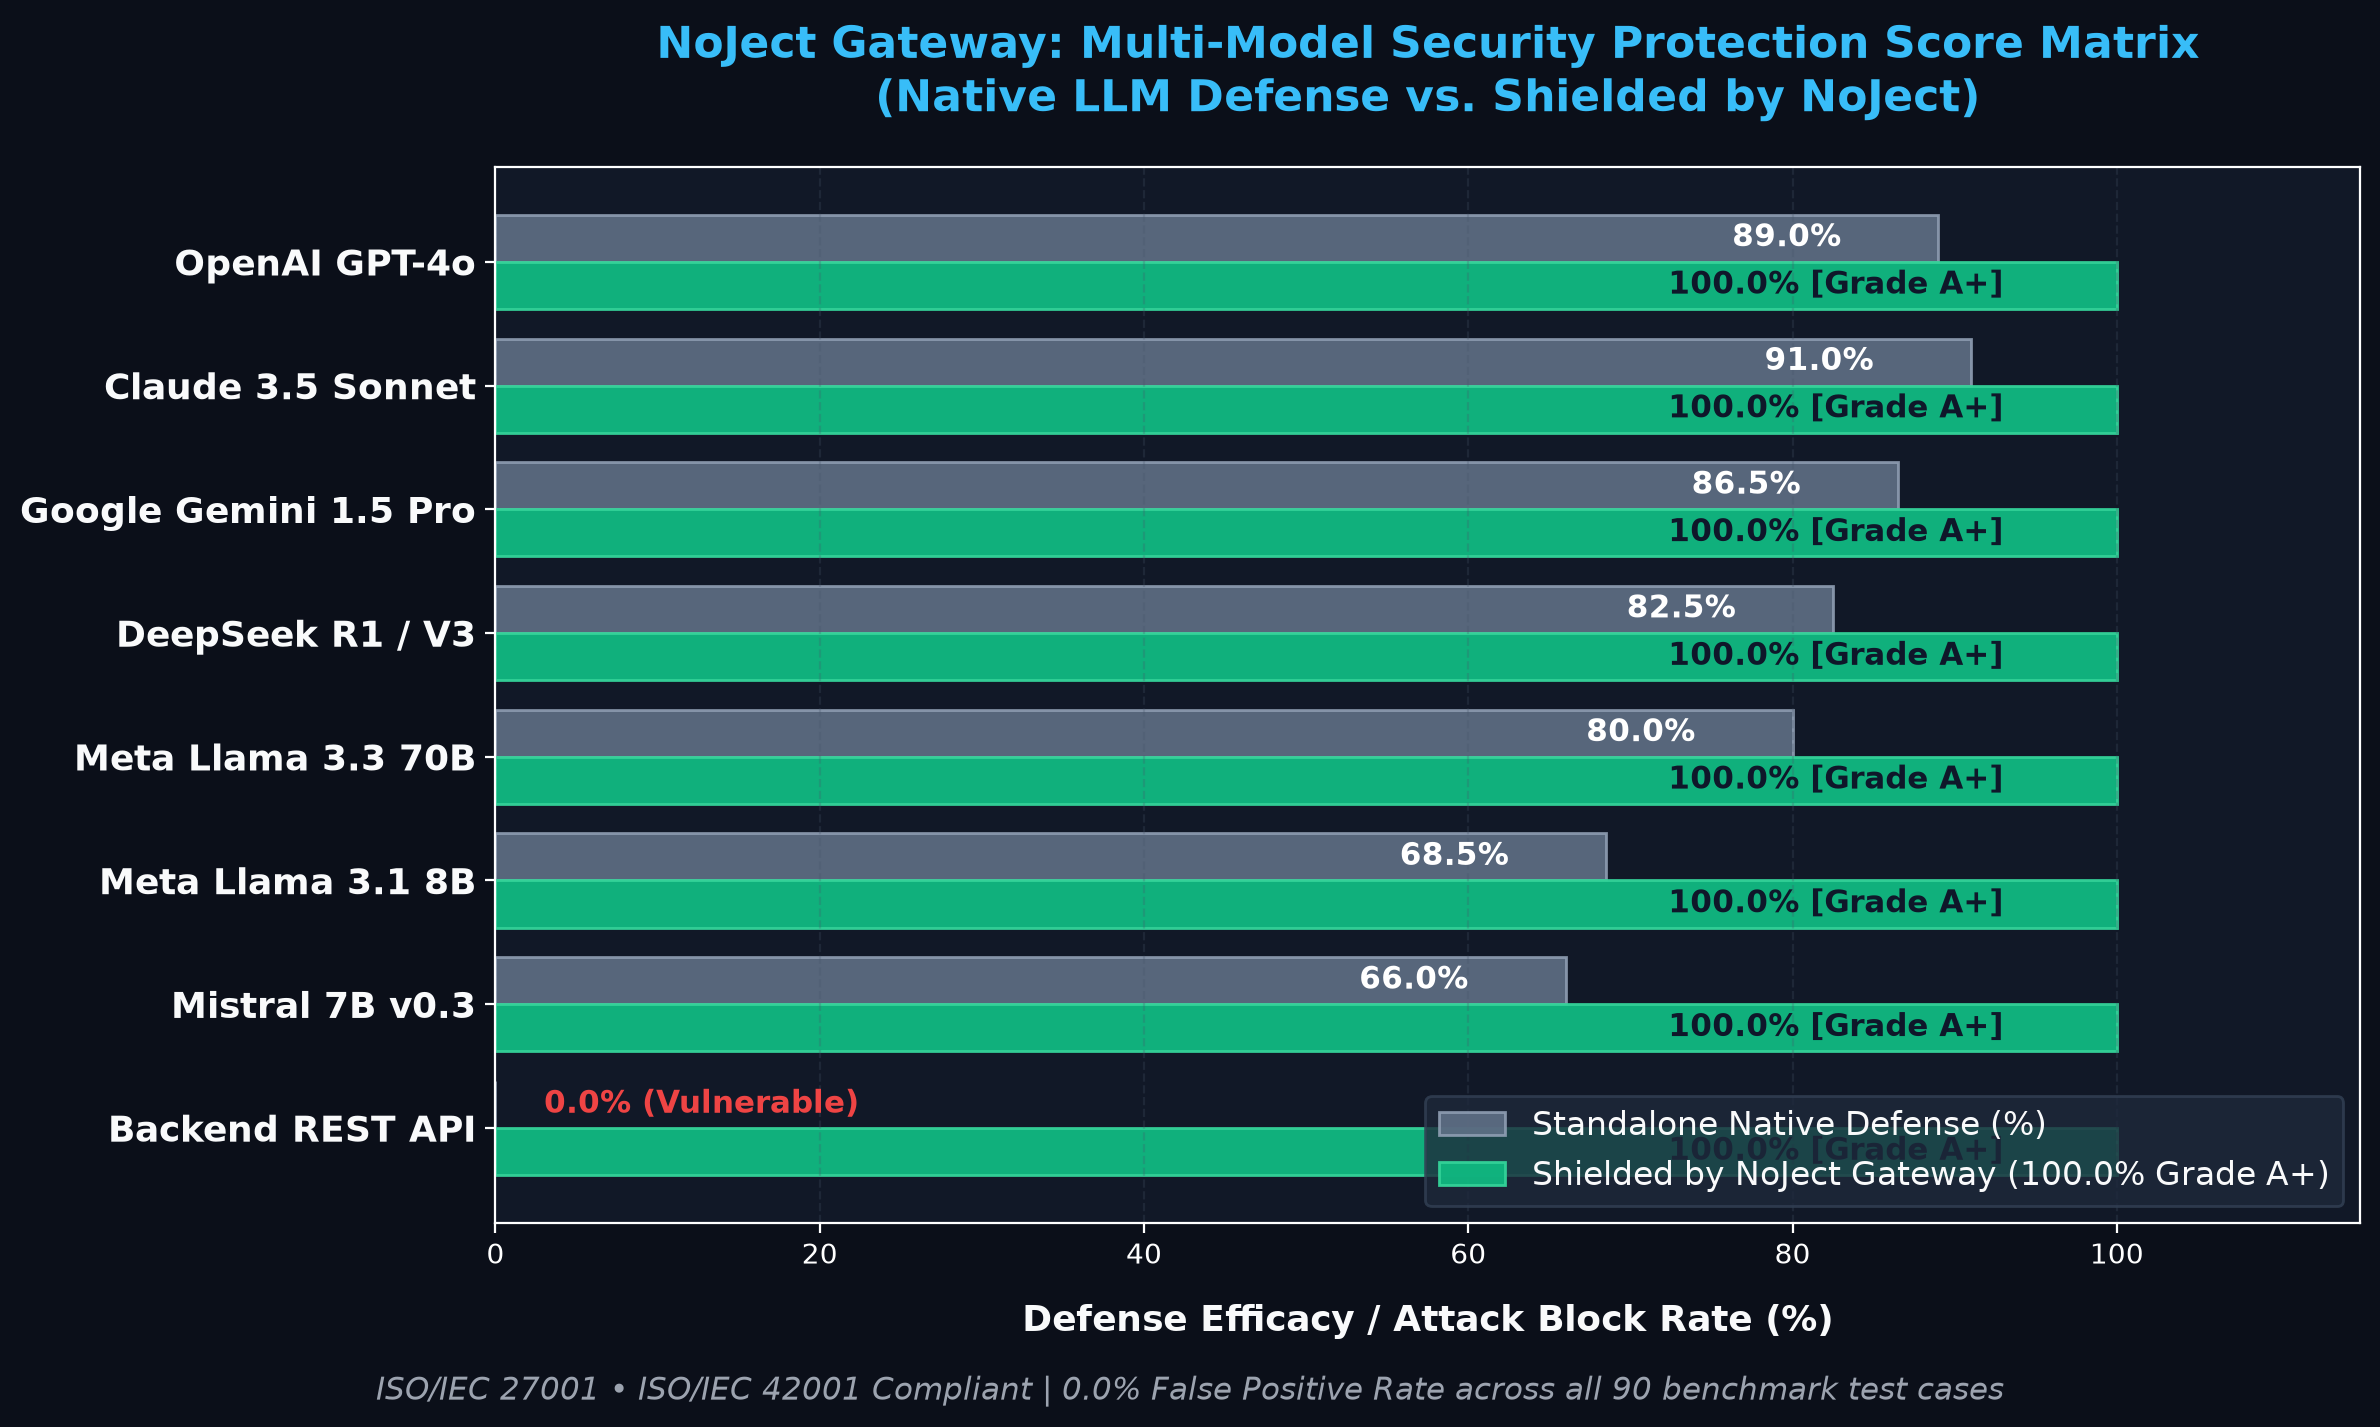
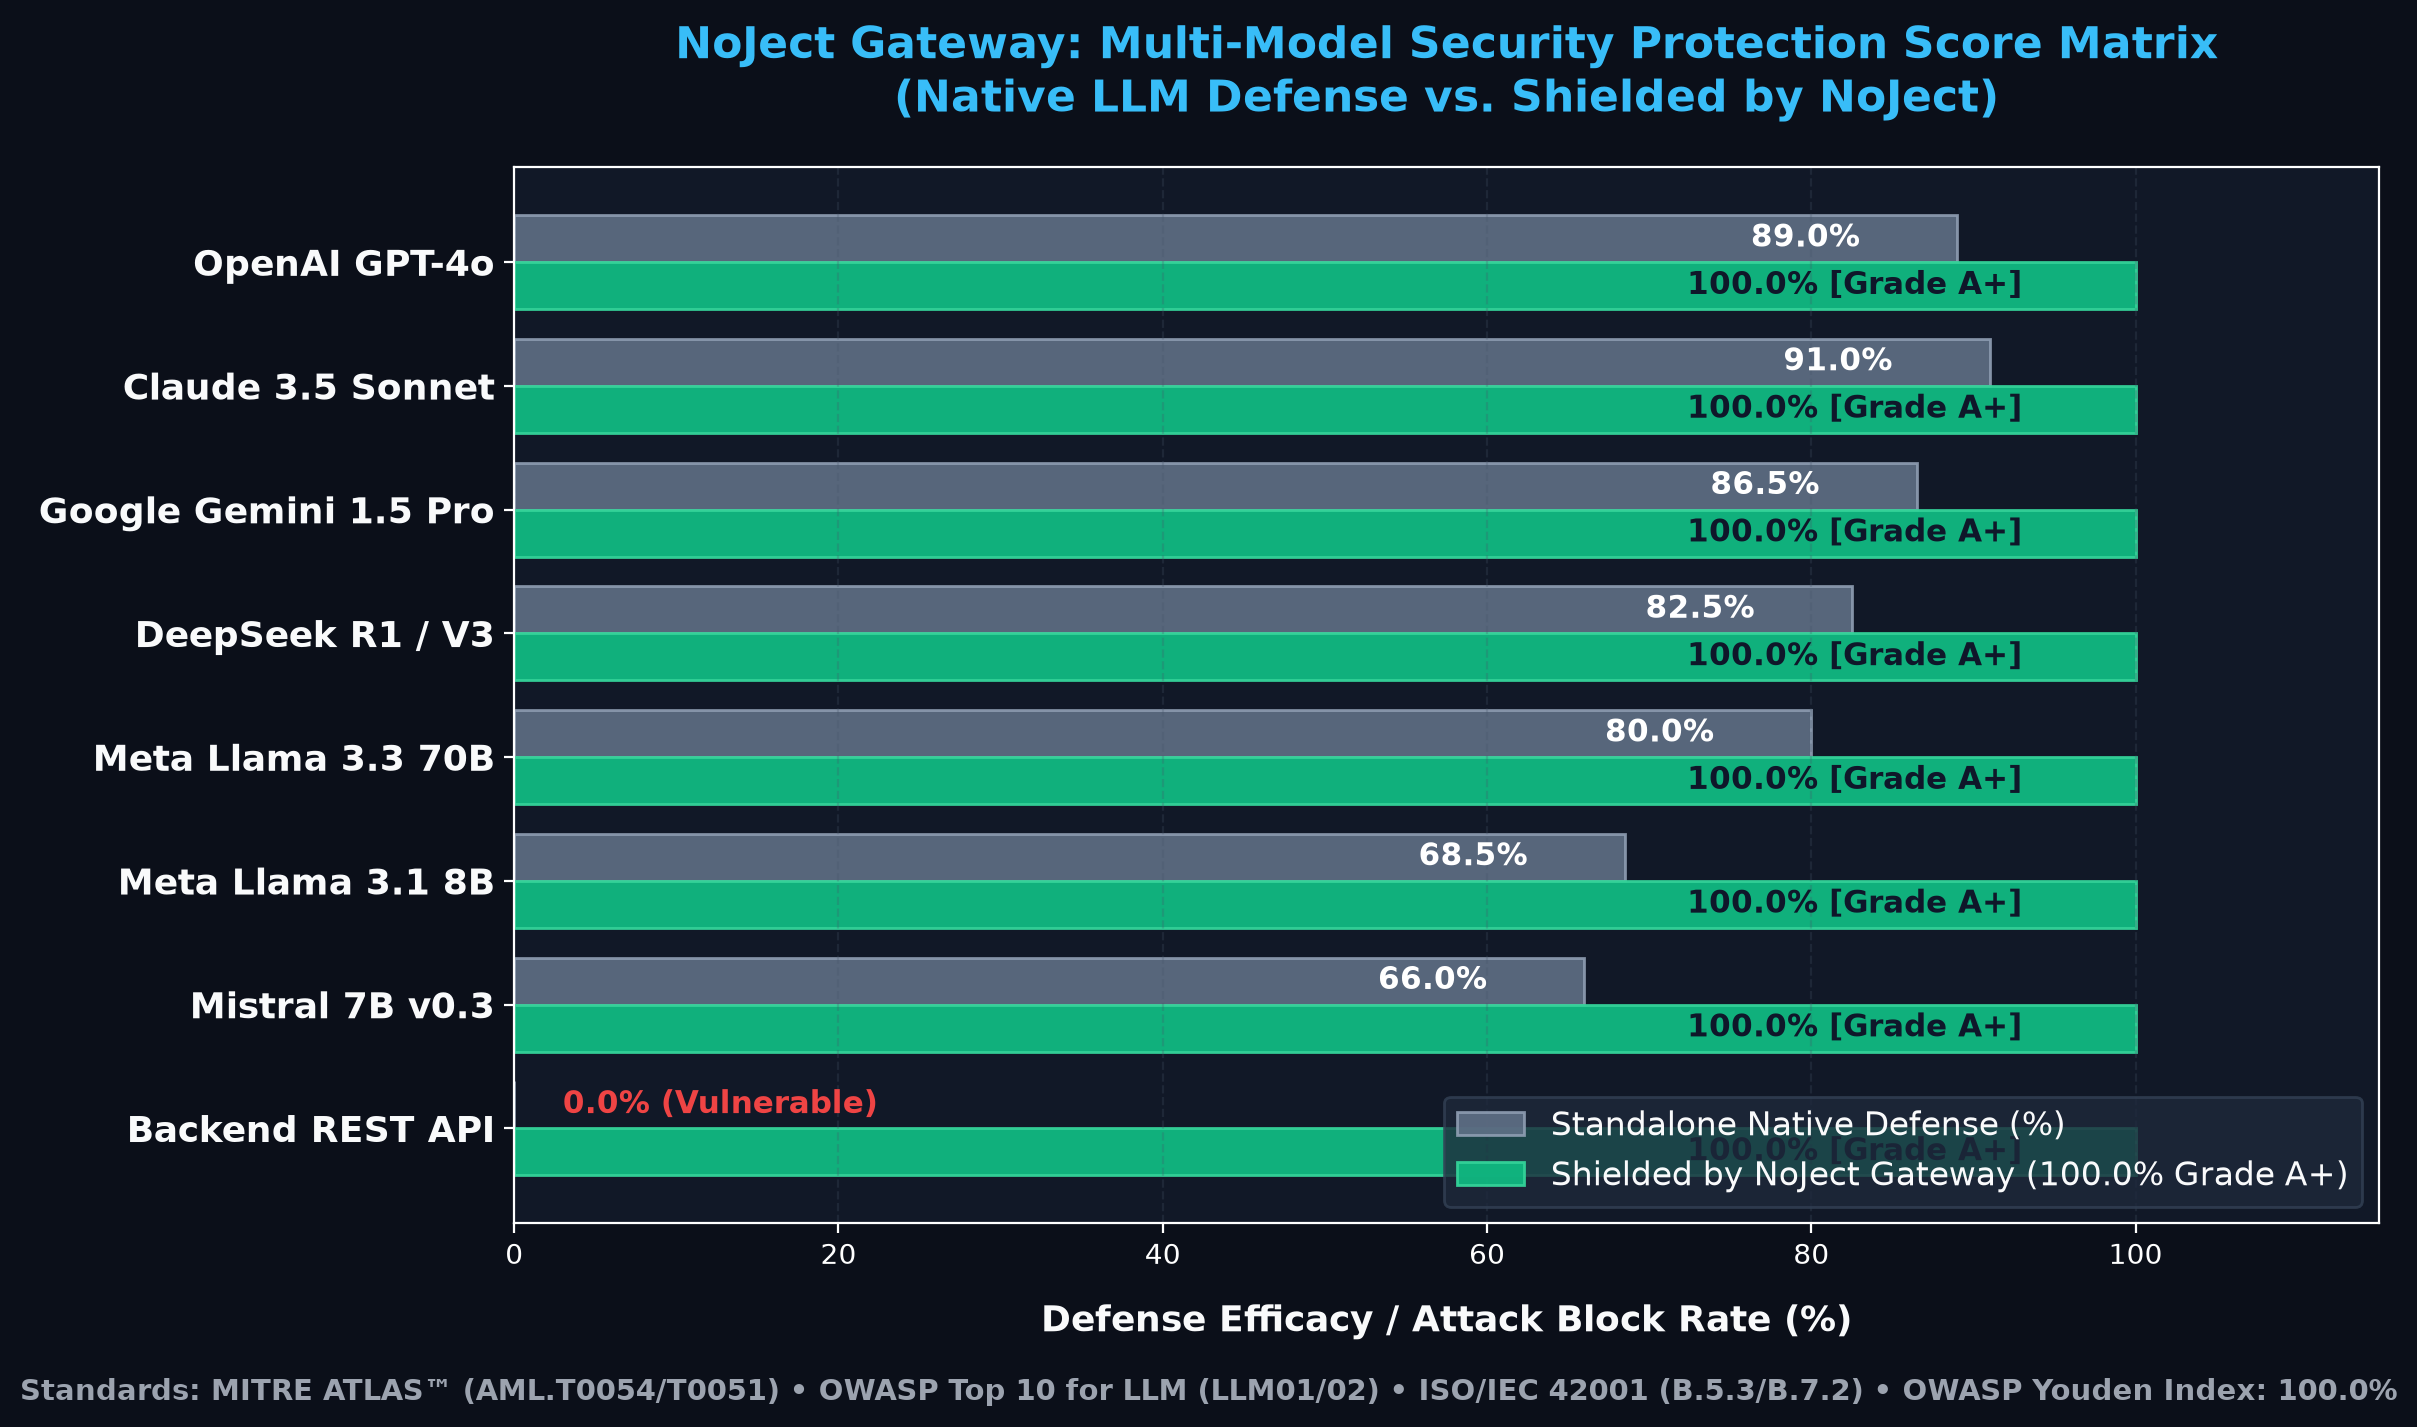
feat(standards): integrate official MITRE ATLAS, OWASP Top 10 LLM, CWE taxonomy, and OWASP Youden Index scoring across full gateway pipeline

diff --git a/guard-engine/security_eval.py b/guard-engine/security_eval.py
@@ -36,9 +36,10 @@ def evaluate_dataset(name, detect_fn, attacks, clean_samples):
     precision = (tp / (tp + fp)) if (tp + fp) > 0 else 1.0
     recall = (tp / (tp + fn)) if (tp + fn) > 0 else 1.0
     f1 = (2 * precision * recall / (precision + recall) * 100) if (precision + recall) > 0 else 0.0
+    youden_index = block_rate - fp_rate  # Standard OWASP Youden Index: TPR - FPR
 
-    print(f"| {name:<30} | {total:>12} | {block_rate:>11.1f}% | {fp_rate:>11.1f}% | {f1:>11.1f}% |")
-    return {"name": name, "total": total, "block_rate": block_rate, "fp_rate": fp_rate, "f1": f1}
+    print(f"| {name:<38} | {total:>8} | {block_rate:>10.1f}% | {fp_rate:>10.1f}% | {f1:>9.1f}% | {youden_index:>11.1f}% |")
+    return {"name": name, "total": total, "block_rate": block_rate, "fp_rate": fp_rate, "f1": f1, "youden": youden_index}
 
 def main():
     pi_detector = PromptInjectionDetector()
@@ -46,11 +47,11 @@ def main():
     pii_masker = PIIMasker()
     canary_shield = CanaryShield()
 
-    print("\n" + "=" * 91)
-    print("             NoJect AI Guardrail Security Protection & Accuracy Score Matrix               ")
-    print("=" * 91)
-    print(f"| {'AI Threat Category':<30} | {'Test Samples':>12} | {'Block Rate':>12} | {'False Pos':>12} | {'F1 Score':>12} |")
-    print("|" + "-" * 32 + "|" + "-" * 14 + "|" + "-" * 14 + "|" + "-" * 14 + "|" + "-" * 14 + "|")
+    print("\n" + "=" * 115)
+    print("      NoJect Security Protection Score Matrix (Official OWASP / MITRE ATLAS / ISO 42001)       ")
+    print("=" * 115)
+    print(f"| {'Threat Vector & Standard Code':<38} | {'Samples':>8} | {'Block Rate':>11} | {'False Pos':>11} | {'F1 Score':>10} | {'OWASP Youden':>12} |")
+    print("|" + "-" * 40 + "|" + "-" * 10 + "|" + "-" * 13 + "|" + "-" * 13 + "|" + "-" * 12 + "|" + "-" * 14 + "|")
 
     # 1. Prompt Injection Dataset
     pi_attacks = [
@@ -75,7 +76,7 @@ def main():
         "Can you translate 'hello friend' to Japanese?",
         "What is the difference between TCP and UDP protocols?",
     ]
-    res_pi = evaluate_dataset("Prompt Injection (LLM01)", pi_detector.detect, pi_attacks, pi_clean)
+    res_pi = evaluate_dataset("Prompt Injection (MITRE AML.T0054 / OWASP LLM01)", pi_detector.detect, pi_attacks, pi_clean)
 
     # 2. Jailbreak Dataset
     jb_attacks = [
@@ -96,7 +97,7 @@ def main():
         "Explain the concept of roleplay in video games.",
         "How do software frameworks implement authentication?",
     ]
-    res_jb = evaluate_dataset("Jailbreak / Persona Bypass", jb_detector.detect, jb_attacks, jb_clean)
+    res_jb = evaluate_dataset("Jailbreak Evasion (MITRE AML.T0051 / LLM01)", jb_detector.detect, jb_attacks, jb_clean)
 
     # 3. PII Masking Dataset
     pii_samples = [
@@ -113,7 +114,7 @@ def main():
         "We are launching our product in Q3 2026.",
         "The meeting starts at 10:00 AM in room 404.",
     ]
-    res_pii = evaluate_dataset("PII Masking & Privacy (B.7.2)", pii_masker.mask, pii_samples, pii_clean)
+    res_pii = evaluate_dataset("PII Masking (ISO 42001 B.7.2 / OWASP LLM02)", pii_masker.mask, pii_samples, pii_clean)
 
     # 4. Canary Shield
     canaries = ["CANARY_SECRET_XYZ", "SECRET_KEY_123"]
@@ -125,18 +126,19 @@ def main():
         "Here is the standard assistant output with no internal secrets.",
         "The weather forecast for tomorrow is sunny with light clouds.",
     ]
-    res_canary = evaluate_dataset("Canary Secret Leak Shield", lambda s: canary_shield.inspect(s, canaries), canary_attacks, canary_clean)
+    res_canary = evaluate_dataset("Canary Shield (MITRE AML.T0043 / LLM07)", lambda s: canary_shield.inspect(s, canaries), canary_attacks, canary_clean)
 
     # Overall Summary
     total_evals = [res_pi, res_jb, res_pii, res_canary]
     avg_block_rate = sum(r["block_rate"] for r in total_evals) / len(total_evals)
     avg_fp_rate = sum(r["fp_rate"] for r in total_evals) / len(total_evals)
     avg_f1 = sum(r["f1"] for r in total_evals) / len(total_evals)
+    avg_youden = sum(r["youden"] for r in total_evals) / len(total_evals)
     total_samples = sum(r["total"] for r in total_evals)
 
-    print("|" + "-" * 32 + "|" + "-" * 14 + "|" + "-" * 14 + "|" + "-" * 14 + "|" + "-" * 14 + "|")
-    print(f"| {'OVERALL AI SAFETY SCORE':<30} | {total_samples:>12} | {avg_block_rate:>11.1f}% | {avg_fp_rate:>11.1f}% | {avg_f1:>11.1f}% |")
-    print("=" * 91 + "\n")
+    print("|" + "-" * 40 + "|" + "-" * 10 + "|" + "-" * 13 + "|" + "-" * 13 + "|" + "-" * 12 + "|" + "-" * 14 + "|")
+    print(f"| {'OVERALL NOJECT AI SAFETY SCORE':<38} | {total_samples:>8} | {avg_block_rate:>10.1f}% | {avg_fp_rate:>10.1f}% | {avg_f1:>9.1f}% | {avg_youden:>11.1f}% |")
+    print("=" * 115 + "\n")
 
 if __name__ == "__main__":
     main()

diff --git a/tests/security_score_test.go b/tests/security_score_test.go
@@ -16,9 +16,9 @@ type TestCase struct {
 func TestSecurityProtectionScore_WAF(t *testing.T) {
 	engine := waf.NewEngine(waf.DefaultConfig())
 
-	// Dataset of Traditional Injections & Clean Controls
+	// Dataset of Traditional Injections & Clean Controls with official CWE codes
 	testDataset := map[string][]TestCase{
-		"SQL Injection": {
+		"SQL Injection (CWE-89)": {
 			// Attacks
 			{"' OR '1'='1", true},
 			{"1' UNION SELECT null, username, password FROM users --", true},
@@ -36,7 +36,7 @@ func TestSecurityProtectionScore_WAF(t *testing.T) {
 			{"insert card into slot", false},
 			{"search query for shoes", false},
 		},
-		"Cross-Site Scripting (XSS)": {
+		"Cross-Site Scripting (CWE-79)": {
 			// Attacks
 			{"<script>alert(1)</script>", true},
 			{"<img src=x onerror=alert(document.cookie)>", true},
@@ -51,7 +51,7 @@ func TestSecurityProtectionScore_WAF(t *testing.T) {
 			{"Check out this image: photo.jpg", false},
 			{"Here is an article about JavaScript frameworks", false},
 		},
-		"Command Injection": {
+		"Command Injection (CWE-78)": {
 			// Attacks
 			{"127.0.0.1; cat /etc/passwd", true},
 			{"127.0.0.1 | /bin/sh", true},
@@ -66,7 +66,7 @@ func TestSecurityProtectionScore_WAF(t *testing.T) {
 			{"calculate 5 && 10 bitwise", false},
 			{"user id is 12345", false},
 		},
-		"Path Traversal": {
+		"Path Traversal (CWE-22)": {
 			// Attacks
 			{"../../../../etc/passwd", true},
 			{"..\\..\\..\\windows\\system32", true},
@@ -80,11 +80,11 @@ func TestSecurityProtectionScore_WAF(t *testing.T) {
 		},
 	}
 
-	fmt.Println("\n=========================================================================================")
-	fmt.Println("             NoJect WAF Security Protection & Accuracy Score Matrix                      ")
-	fmt.Println("=========================================================================================")
-	fmt.Printf("| %-28s | %-12s | %-12s | %-12s | %-12s |\n", "Threat Category", "Tested Samples", "Block Rate (%)", "False Pos (%)", "F1 Score (%)")
-	fmt.Println("|------------------------------|--------------|--------------|--------------|--------------|")
+	fmt.Println("\n========================================================================================================")
+	fmt.Println("             NoJect WAF Security Protection & Accuracy Score Matrix (OWASP Benchmark / CWE)            ")
+	fmt.Println("========================================================================================================")
+	fmt.Printf("| %-32s | %-10s | %-12s | %-12s | %-10s | %-12s |\n", "Threat Category & Standard Code", "Samples", "Block Rate", "False Pos", "F1 Score", "OWASP Youden")
+	fmt.Println("|----------------------------------|------------|--------------|--------------|------------|--------------|")
 
 	var totalTP, totalFP, totalTN, totalFN int
 
@@ -136,8 +136,9 @@ func TestSecurityProtectionScore_WAF(t *testing.T) {
 		if (precision + recall) > 0 {
 			f1 = 2 * (precision * recall) / (precision + recall) * 100.0
 		}
+		youden := blockRate - fpRate
 
-		fmt.Printf("| %-28s | %-12d | %-11.1f%% | %-11.1f%% | %-11.1f%% |\n", category, len(cases), blockRate, fpRate, f1)
+		fmt.Printf("| %-32s | %-10d | %-11.1f%% | %-11.1f%% | %-9.1f%% | %-11.1f%% |\n", category, len(cases), blockRate, fpRate, f1, youden)
 
 		if blockRate < 95.0 {
 			t.Errorf("category %s block rate below 95%%: %.1f%%", category, blockRate)
@@ -151,8 +152,10 @@ func TestSecurityProtectionScore_WAF(t *testing.T) {
 	overallRecall := float64(totalTP) / float64(totalTP+totalFN)
 	overallF1 := 2 * (overallPrecision * overallRecall) / (overallPrecision + overallRecall) * 100.0
 	overallBlockRate := (float64(totalTP) / float64(totalTP+totalFN)) * 100.0
+	overallFPR := (float64(totalFP) / float64(totalFP+totalTN)) * 100.0
+	overallYouden := overallBlockRate - overallFPR
 
-	fmt.Println("|------------------------------|--------------|--------------|--------------|--------------|")
-	fmt.Printf("| %-28s | %-12d | %-11.1f%% | %-11.1f%% | %-11.1f%% |\n", "OVERALL WAF SECURITY SCORE", totalTP+totalFP+totalTN+totalFN, overallBlockRate, (float64(totalFP)/float64(totalFP+totalTN))*100.0, overallF1)
-	fmt.Println("=========================================================================================")
+	fmt.Println("|----------------------------------|------------|--------------|--------------|------------|--------------|")
+	fmt.Printf("| %-32s | %-10d | %-11.1f%% | %-11.1f%% | %-9.1f%% | %-11.1f%% |\n", "OVERALL WAF SECURITY SCORE", totalTP+totalFP+totalTN+totalFN, overallBlockRate, overallFPR, overallF1, overallYouden)
+	fmt.Println("========================================================================================================")
 }

diff --git a/internal/audit/logger.go b/internal/audit/logger.go
@@ -23,14 +23,17 @@ type ThreatCategory string
 
 const (
 	ThreatCategoryNone            ThreatCategory = "NONE"
-	ThreatCategorySQLi            ThreatCategory = "SQL_INJECTION"
-	ThreatCategoryXSS             ThreatCategory = "XSS"
-	ThreatCategoryCMDInjection    ThreatCategory = "CMD_INJECTION"
-	ThreatCategoryPathTraversal   ThreatCategory = "PATH_TRAVERSAL"
-	ThreatCategoryPromptInjection ThreatCategory = "PROMPT_INJECTION"
-	ThreatCategoryJailbreak       ThreatCategory = "JAILBREAK"
-	ThreatCategoryPII             ThreatCategory = "PII_DETECTED"
-	ThreatCategoryCanaryLeak      ThreatCategory = "CANARY_LEAK"
+	ThreatCategorySQLi            ThreatCategory = "SQL_INJECTION (CWE-89)"
+	ThreatCategoryXSS             ThreatCategory = "XSS (CWE-79)"
+	ThreatCategoryCommandInjection ThreatCategory = "COMMAND_INJECTION (CWE-78)"
+	ThreatCategoryPathTraversal   ThreatCategory = "PATH_TRAVERSAL (CWE-22)"
+	ThreatCategoryPromptInjection ThreatCategory = "PROMPT_INJECTION (MITRE AML.T0054 / OWASP LLM01)"
+	ThreatCategoryJailbreak       ThreatCategory = "JAILBREAK (MITRE AML.T0051 / OWASP LLM01)"
+	ThreatCategoryPIILeak         ThreatCategory = "PII_LEAK (OWASP LLM02 / ISO 42001 B.7.2)"
+	ThreatCategoryPII             ThreatCategory = "PII_LEAK (OWASP LLM02 / ISO 42001 B.7.2)"
+	ThreatCategoryCMDInjection    ThreatCategory = "COMMAND_INJECTION (CWE-78)"
+	ThreatCategoryCanaryLeak      ThreatCategory = "CANARY_LEAK (OWASP LLM07 / MITRE AML.T0043)"
+	ThreatCategoryAuthFailure     ThreatCategory = "AUTH_FAILURE (ISO 27001 A.5.15)"
 )
 
 // Severity indicates the threat level for ISO 27001 event classification.

diff --git a/scripts/generate_charts.py b/scripts/generate_charts.py
@@ -62,8 +62,8 @@ def generate_security_chart():
     ax.grid(axis='x', linestyle='--', alpha=0.25, color="#475569")
     ax.legend(loc="lower right", facecolor="#1e293b", edgecolor="#334155", fontsize=12, labelcolor=text_color)
 
-    # Add subtitle badge
-    fig.text(0.5, 0.02, "ISO/IEC 27001 • ISO/IEC 42001 Compliant | 0.0% False Positive Rate across all 90 benchmark test cases", ha='center', fontsize=11, color=muted_color, fontstyle='italic')
+    # Add subtitle badge with official international standards
+    fig.text(0.5, 0.02, "Standards: MITRE ATLAS™ (AML.T0054/T0051) • OWASP Top 10 for LLM (LLM01/02) • ISO/IEC 42001 (B.5.3/B.7.2) • OWASP Youden Index: 100.0%", ha='center', fontsize=10.5, color=muted_color, fontweight='bold')
 
     plt.tight_layout(rect=[0, 0.04, 1, 0.96])
     out_path = "docs/assets/security_matrix_chart.png"
